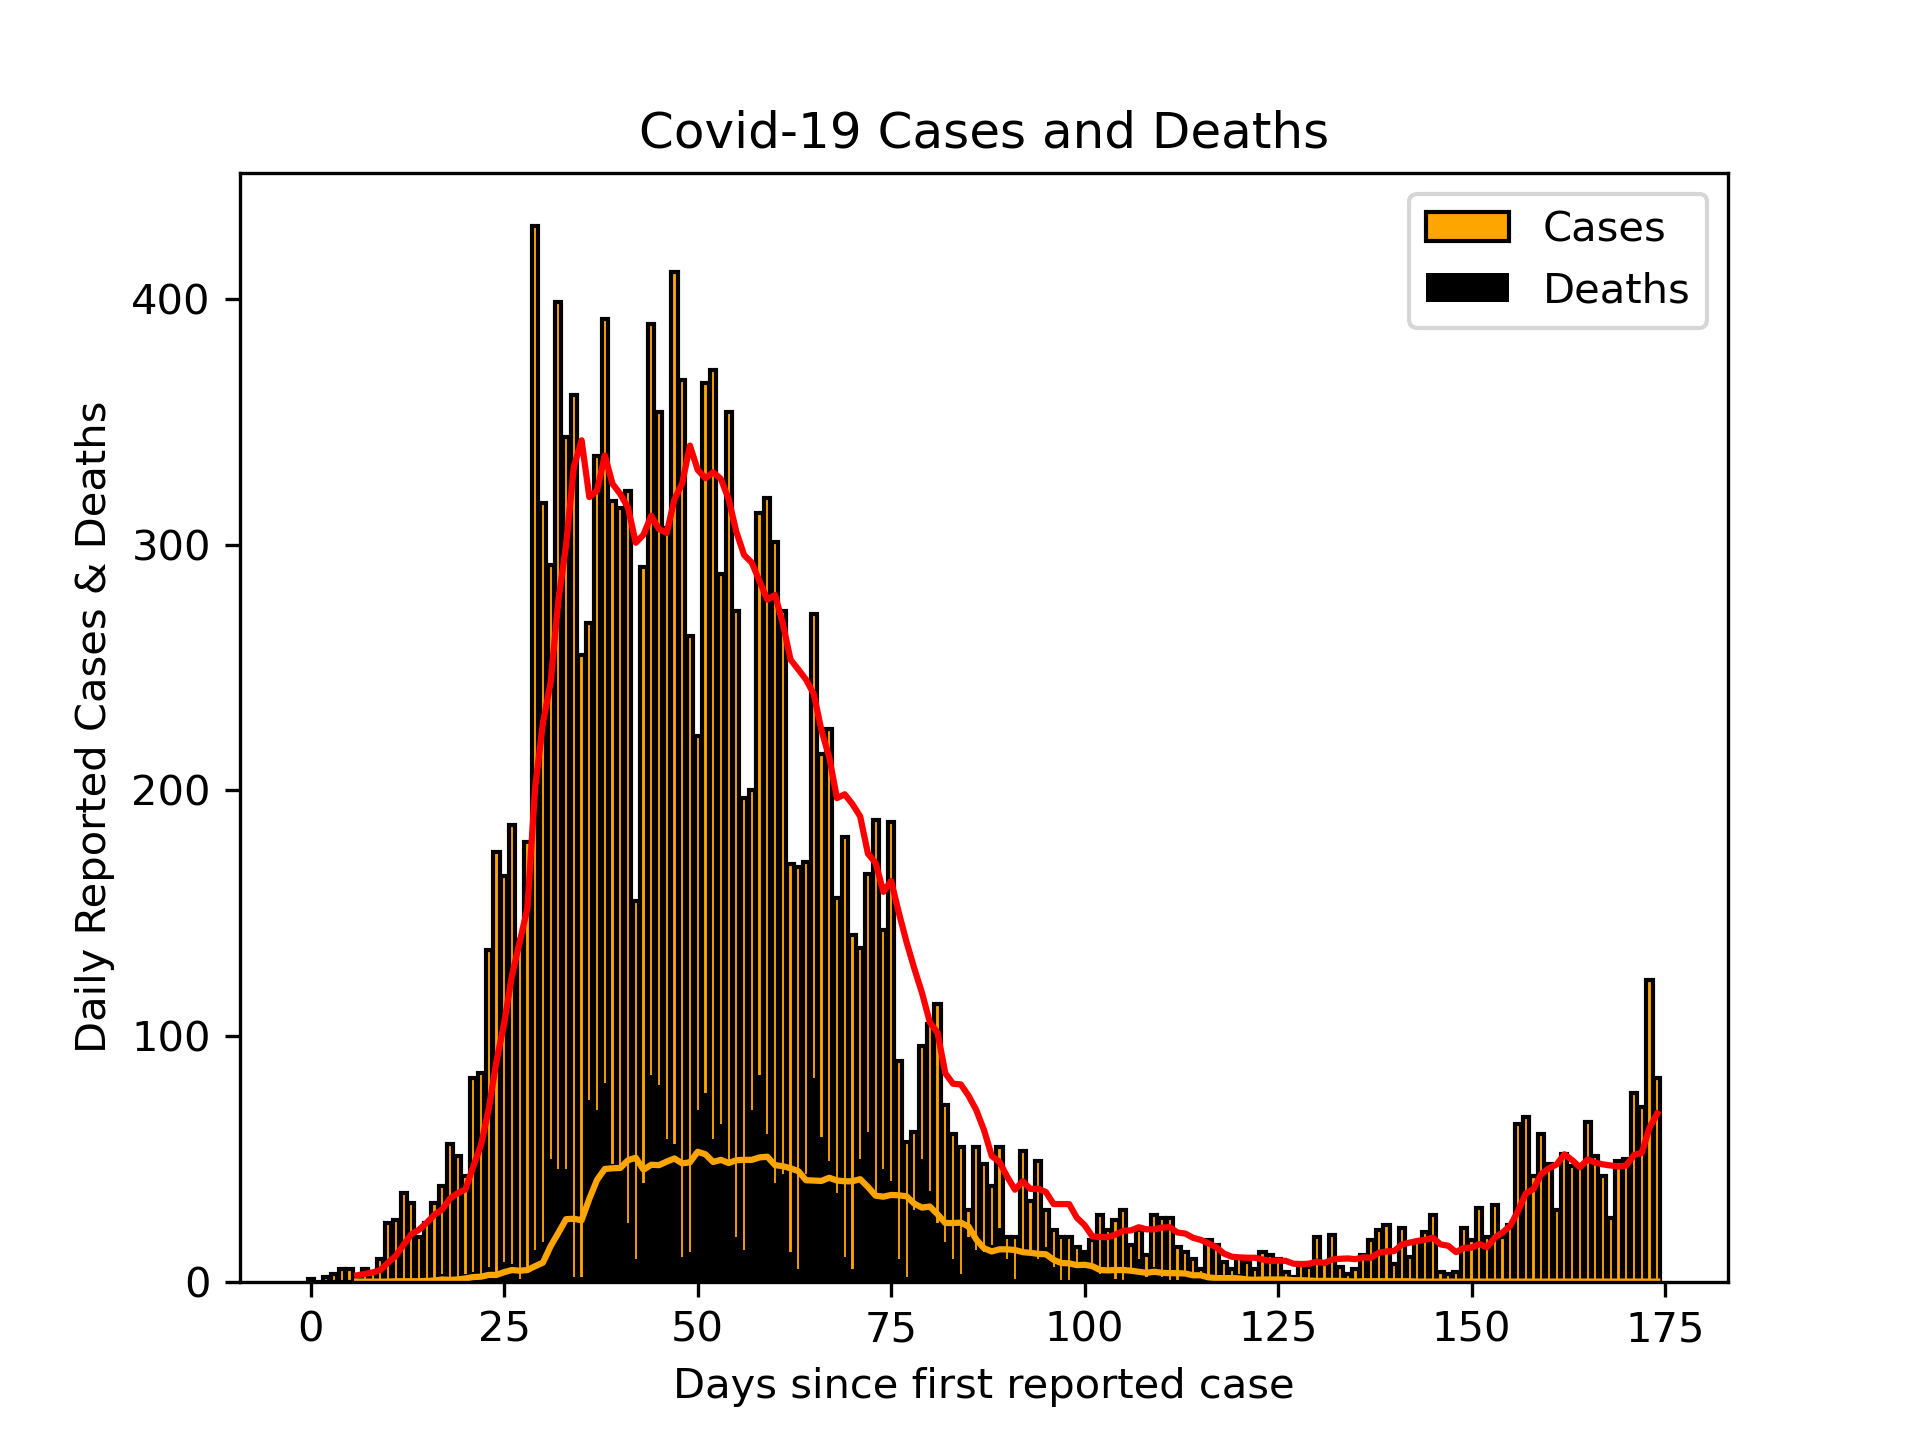
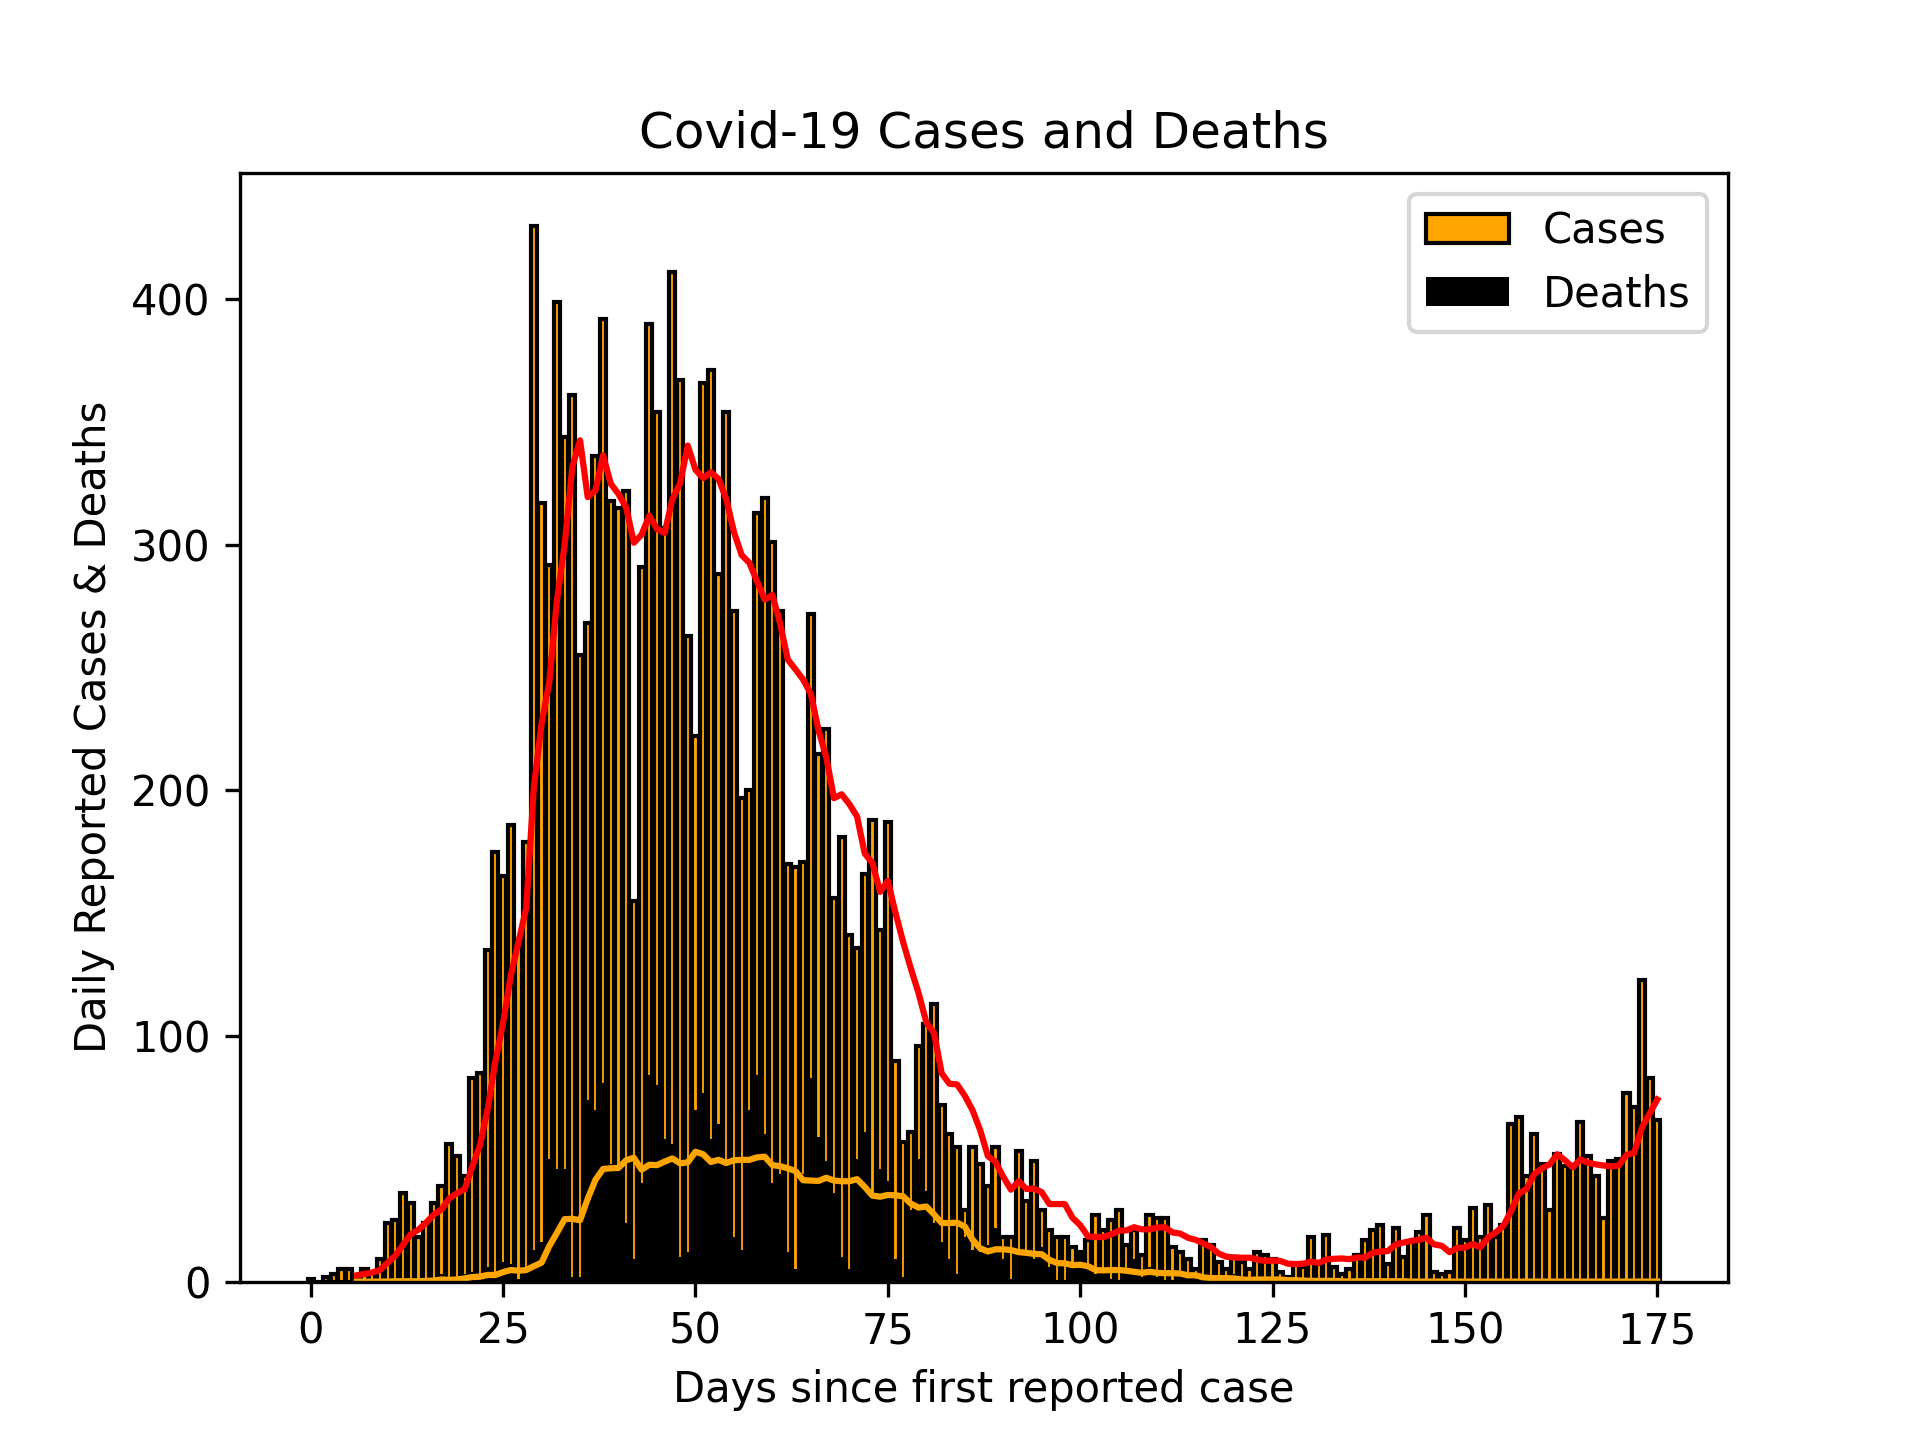
Updated Scottish cases 24/08/20

Changed region(s): [[0.2188, 0.1875, 0.875, 1.0], [0.75, 0.1562, 0.875, 0.25], [0.8438, 0.9062, 0.9062, 0.9375]]

diff --git a/README.md b/README.md
@@ -1,3 +1,3 @@
-# Scottish Cases 23/08/20
+# Scottish Cases 24/08/20
 ![alt](scottish_cases.png)
 
